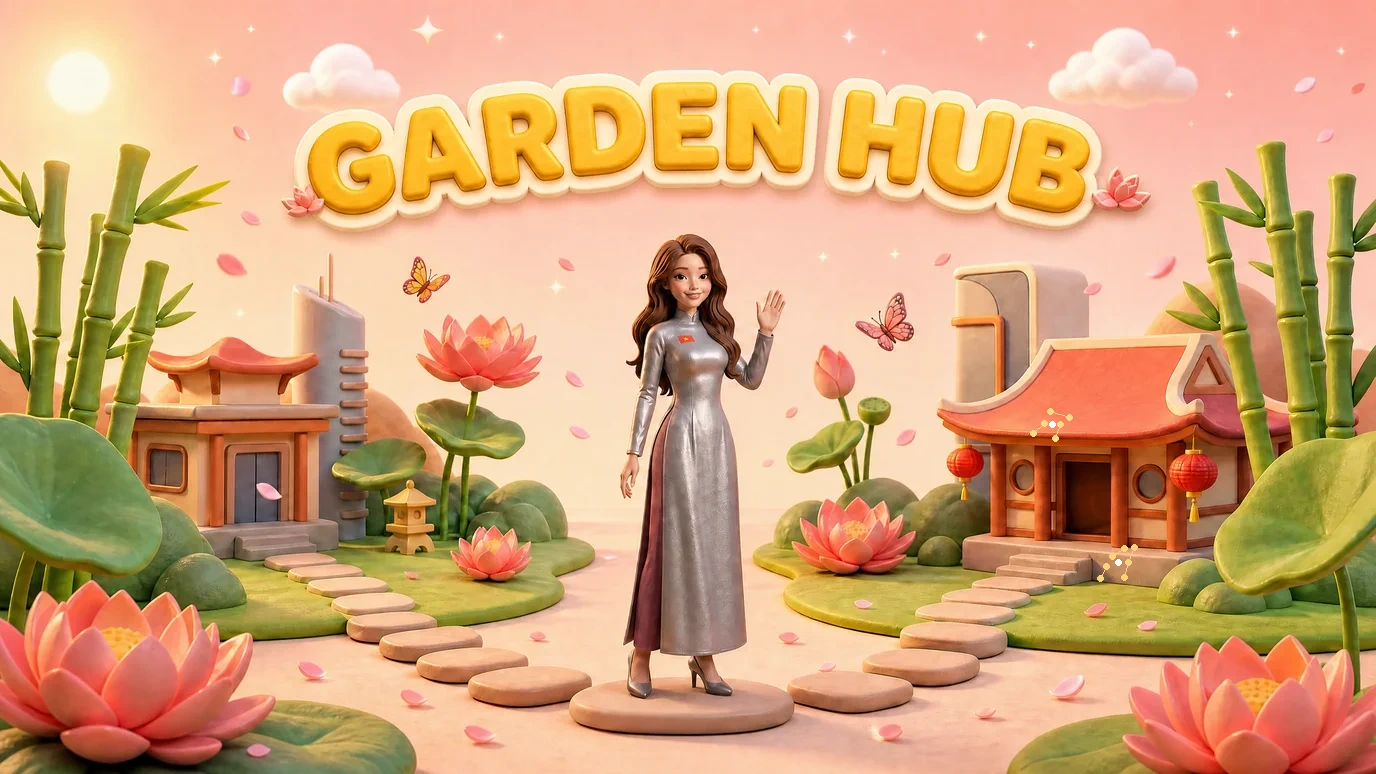
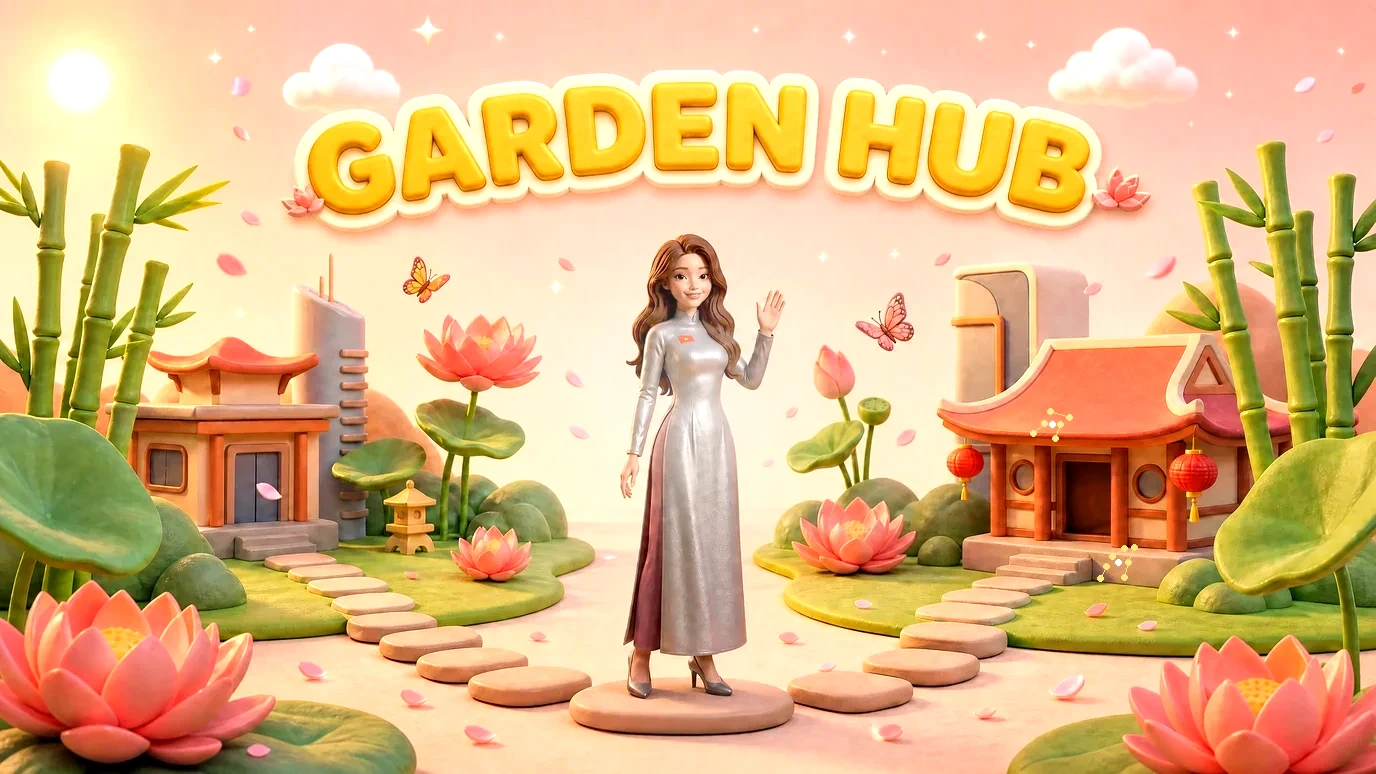
Restore Garden Hub cover image, brightened around Huong AI
Per the site owner's choice, the homepage hub goes back to the
original rendered cover image instead of the generated Three.js clay
scene: remove the canvas layer CSS and the clayhub.js include from
index.html (the script stays in assets/js for possible later use on
another page).

The cover itself is re-exported with a gentle global lift
(brightness +9%, slight contrast and saturation) plus a soft
radial light centered on the Huong AI figure, so the character
reads brighter without blowing out the pastel background.

Service worker: drop clayhub.js from the precache list, fix the
long-broken 'assets/img/garden_hub.jpg' entry (file does not exist,
which made cache.addAll reject and the service worker never install)
to the real garden_hub.webp, and bump the cache to jshuong-v48.

diff --git a/index.html b/index.html
@@ -177,12 +177,6 @@ footer .fgroup{font-weight:700;color:var(--ink);margin-right:2px}
   border:5px solid var(--surface);box-shadow:var(--shadow);margin:0 0 26px;
   background:url('assets/img/garden_hub.webp') center/cover no-repeat}
 :root[data-theme=dark] #bando{filter:saturate(.94) brightness(.78) contrast(1.03)}
-/* Cảnh đất sét 3D động: nằm dưới các nút trạm, mờ dần vào khi dựng xong;
-   không có WebGL hoặc lỗi thì ảnh nền tĩnh phía trên vẫn hiển thị như cũ */
-#bd-3d{position:absolute;inset:0;width:100%;height:100%;z-index:0;opacity:0;transition:opacity .9s ease}
-#bd-3d.on{opacity:1}
-/* cảnh 3D tự đổi ngày/đêm nên khi nó chạy thì bỏ filter tối của dark mode */
-:root[data-theme=dark] #bando:has(#bd-3d.on){filter:none}
 .bd-inner{position:absolute;inset:-6%;width:112%;height:112%;will-change:transform}
 .bd-map{position:absolute;right:3%;bottom:-6%;width:14%;opacity:.30;pointer-events:none;z-index:1;transform:rotate(8deg);filter:drop-shadow(0 3px 6px rgba(90,50,50,.25))}
 .bd-buom{position:absolute;z-index:2;pointer-events:none;font-size:clamp(.9rem,1.8vw,1.35rem);opacity:.9;
@@ -1175,7 +1169,6 @@ if ('serviceWorker' in navigator) {
 </script>
 
 <script src="assets/vendor/three-r128.min.js" defer></script>
-<script src="assets/js/clayhub.js" defer></script>
 <!-- huong3d.js removed: no .gh-map mount point in this page; 2D webp avatars are used instead -->
 <script>
 /* Bản đồ trang viên: cô Hương đất sét 3D đạp xe tới trạm được bấm */

diff --git a/sw.js b/sw.js
@@ -1,5 +1,5 @@
 /* Service worker - Je m'appelle Hương (trang học thuật cá nhân) */
-const CACHE = 'jshuong-v47';
+const CACHE = 'jshuong-v48';
 const CORE = [
   './',
   'index.html',
@@ -12,7 +12,6 @@ const CORE = [
   'assets/js/huong3d.js',
   'assets/js/dongho.js',
   'assets/js/music.js',
-  'assets/js/clayhub.js',
   'manifest.webmanifest',
   'assets/img/pro_aodai.png',
   'assets/img/lab_scene.jpg',
@@ -33,7 +32,7 @@ const CORE = [
   'assets/img/lr-je-mappelle-huong.webp',
   'assets/img/lr-seal-round.webp',
   'favicon.ico',
-  'assets/img/garden_hub.jpg',
+  'assets/img/garden_hub.webp',
   'assets/img/innovation_banner.jpg',
   'assets/img/creative_library.jpg',
   'assets/img/research_map.webp',
